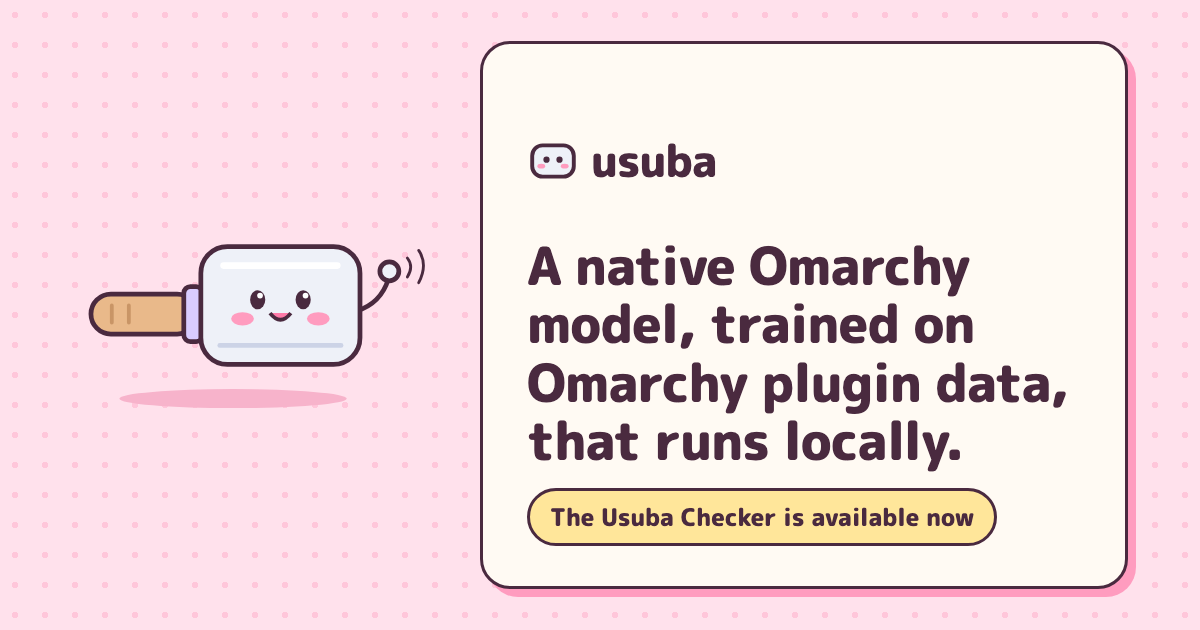
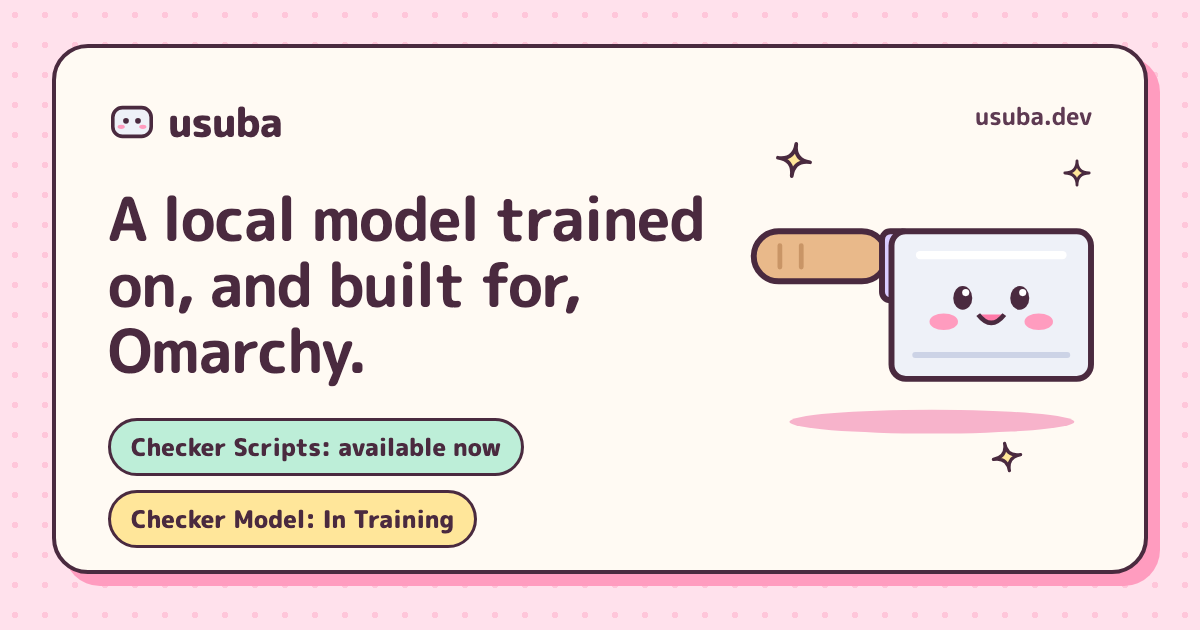
Social cards for the site and the post, and actually emit og:image
- New site card (public/og.png): the homepage headline with both status pills
  (Checker Scripts available now, Checker Model In Training), replacing the old card that
  said bare "Usuba Checker"
- New post card (public/og-post.png): title, byline and three headline numbers with the
  preliminary label; the numbers come from results.json via npm run make:images
- Base.astro: per-page image, alt text and og:type (the post is an article). The image
  check resolved its path from the build output, so og:image was never emitted; it now
  resolves from the project root
- Docs pages share the site card; check:site guards both cards

diff --git a/scripts/og-template.html b/scripts/og-template.html
@@ -2,97 +2,35 @@
 <html lang="en">
   <head>
     <meta charset="utf-8" />
-    <title>Usuba social preview</title>
+    <title>Usuba social card</title>
+    <link rel="stylesheet" href="og.css" />
     <style>
-      /* Rendered to public/og.png at 1200x630 by scripts/make-images.mjs.
-         Uses the same token values as src/styles/tokens.css. */
-      @font-face {
-        font-family: 'M PLUS Rounded 1c';
-        font-weight: 800;
-        font-display: block;
-        src: url('../node_modules/@fontsource/m-plus-rounded-1c/files/m-plus-rounded-1c-latin-800-normal.woff2') format('woff2');
-      }
-
-      * {
-        box-sizing: border-box;
-      }
-
-      html,
-      body {
-        margin: 0;
-        width: 1200px;
-        height: 630px;
-        overflow: hidden;
-      }
-
-      body {
-        background-color: #ffe1ec;
-        background-image: radial-gradient(#ffc6da 3px, transparent 3.5px);
-        background-size: 30px 30px;
-        color: #4a2a3f;
-        font-family: 'M PLUS Rounded 1c', sans-serif;
-        font-weight: 800;
-      }
-
-      .frame {
-        display: flex;
-        align-items: center;
-        gap: 48px;
-        height: 100%;
-        padding: 64px 72px;
-      }
-
-      .mascot {
-        width: 360px;
-        flex: none;
-      }
-
-      .panel {
-        background: #fffaf3;
-        border: 3px solid #4a2a3f;
-        border-radius: 30px;
-        box-shadow: 8px 8px 0 #ff9cbf;
-        padding: 40px 44px;
-      }
-
-      .wordmark {
-        display: flex;
-        align-items: center;
-        gap: 12px;
-        font-size: 44px;
-        letter-spacing: -0.02em;
-      }
-
-      .wordmark img {
-        width: 52px;
-        height: 52px;
-      }
-
-      h1 {
-        margin: 22px 0 18px;
-        font-size: 52px;
-        line-height: 1.12;
-        letter-spacing: -0.015em;
-      }
-
-      .pill {
-        display: inline-block;
-        margin: 0;
-        padding: 8px 20px;
-        background: #ffe69a;
-        border: 3px solid #4a2a3f;
-        border-radius: 999px;
-        font-size: 24px;
-      }
+      .text { width: 690px; }
+      h1 { margin: 34px 0 34px; font-size: 60px; line-height: 1.1; letter-spacing: -0.02em; }
+      .mascot { position: absolute; right: 34px; top: 150px; width: 380px; }
+      .s1 { right: 330px; top: 92px; transform: rotate(8deg); }
+      .s2 { right: 52px; top: 70px; width: 30px; height: 30px; }
+      .s3 { right: 120px; bottom: 96px; width: 34px; height: 34px; transform: rotate(-10deg); }
+      .url { left: auto; right: 52px; top: 50px; bottom: auto; }
+      .s2 { top: 110px; }
     </style>
   </head>
   <body>
     <div class="frame">
-      <img class="mascot" src="../public/assets/mascot/usu-chan-wave.svg" alt="" />
-      <div class="panel">
-        <p class="wordmark"><img src="../public/assets/brand/logo-mark.svg" alt="" />usuba</p>
-        <h1>A native Omarchy model, trained on Omarchy plugin data, that runs locally.</h1>
-        <p class="pill">The Usuba Checker is available now</p>
+      <div class="card">
+        <div class="text">
+          <p class="wordmark"><img src="../public/assets/brand/logo-mark.svg" alt="" />usuba</p>
+          <h1>A local model trained on, and built for, Omarchy.</h1>
+          <div class="pills">
+            <span class="pill pill--mint">Checker Scripts: available now</span>
+            <span class="pill pill--butter">Checker Model: In Training</span>
+          </div>
+        </div>
+        <img class="mascot" src="../public/assets/mascot/usu-chan-wave.svg" alt="" />
+        <img class="sparkle s1" src="../public/assets/brand/sparkle.svg" alt="" />
+        <img class="sparkle s2" src="../public/assets/brand/sparkle.svg" alt="" />
+        <img class="sparkle s3" src="../public/assets/brand/sparkle.svg" alt="" />
+        <p class="url">usuba.dev</p>
       </div>
     </div>
   </body>

diff --git a/scripts/og-post-template.html b/scripts/og-post-template.html
@@ -1,0 +1,45 @@
+<!doctype html>
+<html lang="en">
+  <head>
+    <meta charset="utf-8" />
+    <title>Usuba post social card</title>
+    <link rel="stylesheet" href="og.css" />
+    <style>
+      .top { display: flex; align-items: center; justify-content: space-between; }
+      .wordmark { font-size: 32px; }
+      .wordmark img { width: 40px; height: 40px; }
+      .meta { font-size: 22px; font-weight: 700; color: #5e3a52; }
+      h1 { width: 760px; margin: 26px 0 30px; font-size: 66px; line-height: 1.06; letter-spacing: -0.02em; }
+      .stats { display: flex; gap: 18px; }
+      .stat { width: 268px; padding: 16px 20px; border: 3px solid #4a2a3f; border-radius: 22px; box-shadow: 5px 5px 0 #4a2a3f; }
+      .stat:nth-child(1) { background: #bdeed8; transform: rotate(-1.5deg); }
+      .stat:nth-child(2) { background: #ffe69a; transform: rotate(1deg); }
+      .stat:nth-child(3) { background: #d9ccff; transform: rotate(-0.6deg); }
+      .stat__value { display: block; font-size: 44px; line-height: 1.05; }
+      .stat__text { display: block; margin-top: 4px; font-size: 18px; font-weight: 700; line-height: 1.3; }
+      .mascot { position: absolute; right: 30px; top: 104px; width: 280px; }
+      .s1 { right: 300px; top: 120px; width: 34px; height: 34px; transform: rotate(10deg); }
+      .label { position: absolute; right: 52px; bottom: 36px; font-size: 18px; font-weight: 700; color: #5e3a52; }
+    </style>
+  </head>
+  <body>
+    <div class="frame">
+      <div class="card">
+        <div class="top">
+          <p class="wordmark"><img src="../public/assets/brand/logo-mark.svg" alt="" />usuba</p>
+          <p class="meta" data-k="meta"></p>
+        </div>
+        <h1 data-k="title"></h1>
+        <div class="stats">
+          <p class="stat"><span class="stat__value" data-k="s1v"></span><span class="stat__text" data-k="s1t"></span></p>
+          <p class="stat"><span class="stat__value" data-k="s2v"></span><span class="stat__text" data-k="s2t"></span></p>
+          <p class="stat"><span class="stat__value" data-k="s3v"></span><span class="stat__text" data-k="s3t"></span></p>
+        </div>
+        <img class="mascot" src="../public/assets/mascot/usu-chan-celebrate.svg" alt="" />
+        <img class="sparkle s1" src="../public/assets/brand/sparkle.svg" alt="" />
+        <p class="url" data-k="url"></p>
+        <p class="label" data-k="label"></p>
+      </div>
+    </div>
+  </body>
+</html>

diff --git a/scripts/og.css b/scripts/og.css
@@ -1,0 +1,32 @@
+/* Shared styles for the social cards rendered by scripts/make-images.mjs (1200x630).
+   Values mirror src/styles/tokens.css; these files are not part of the site build. */
+@font-face { font-family: 'M PLUS Rounded 1c'; font-weight: 500; font-display: block; src: url('../node_modules/@fontsource/m-plus-rounded-1c/files/m-plus-rounded-1c-latin-500-normal.woff2') format('woff2'); }
+@font-face { font-family: 'M PLUS Rounded 1c'; font-weight: 700; font-display: block; src: url('../node_modules/@fontsource/m-plus-rounded-1c/files/m-plus-rounded-1c-latin-700-normal.woff2') format('woff2'); }
+@font-face { font-family: 'M PLUS Rounded 1c'; font-weight: 800; font-display: block; src: url('../node_modules/@fontsource/m-plus-rounded-1c/files/m-plus-rounded-1c-latin-800-normal.woff2') format('woff2'); }
+
+* { box-sizing: border-box; }
+html, body { margin: 0; width: 1200px; height: 630px; overflow: hidden; }
+body {
+  background-color: #ffe1ec;
+  background-image: radial-gradient(#ffc6da 3px, transparent 3.5px);
+  background-size: 30px 30px;
+  color: #4a2a3f;
+  font-family: 'M PLUS Rounded 1c', sans-serif;
+  font-weight: 800;
+}
+p, h1 { margin: 0; }
+.frame { position: relative; height: 100%; padding: 44px 52px 56px; }
+.card {
+  position: relative; height: 100%;
+  background: #fffaf3; border: 4px solid #4a2a3f; border-radius: 36px; box-shadow: 12px 12px 0 #ff9cbf;
+  padding: 44px 52px; overflow: hidden;
+}
+.wordmark { display: flex; align-items: center; gap: 12px; font-size: 40px; letter-spacing: -0.02em; }
+.wordmark img { width: 48px; height: 48px; }
+.pills { display: flex; flex-wrap: wrap; gap: 14px; }
+.pill { padding: 8px 20px; border: 3px solid #4a2a3f; border-radius: 999px; font-size: 24px; font-weight: 800; color: #4a2a3f; }
+.pill--mint { background: #bdeed8; }
+.pill--butter { background: #ffe69a; }
+.pill--steel { background: #eef1f8; }
+.url { position: absolute; left: 52px; bottom: 36px; font-size: 24px; font-weight: 700; color: #5e3a52; }
+.sparkle { position: absolute; width: 40px; height: 40px; }
